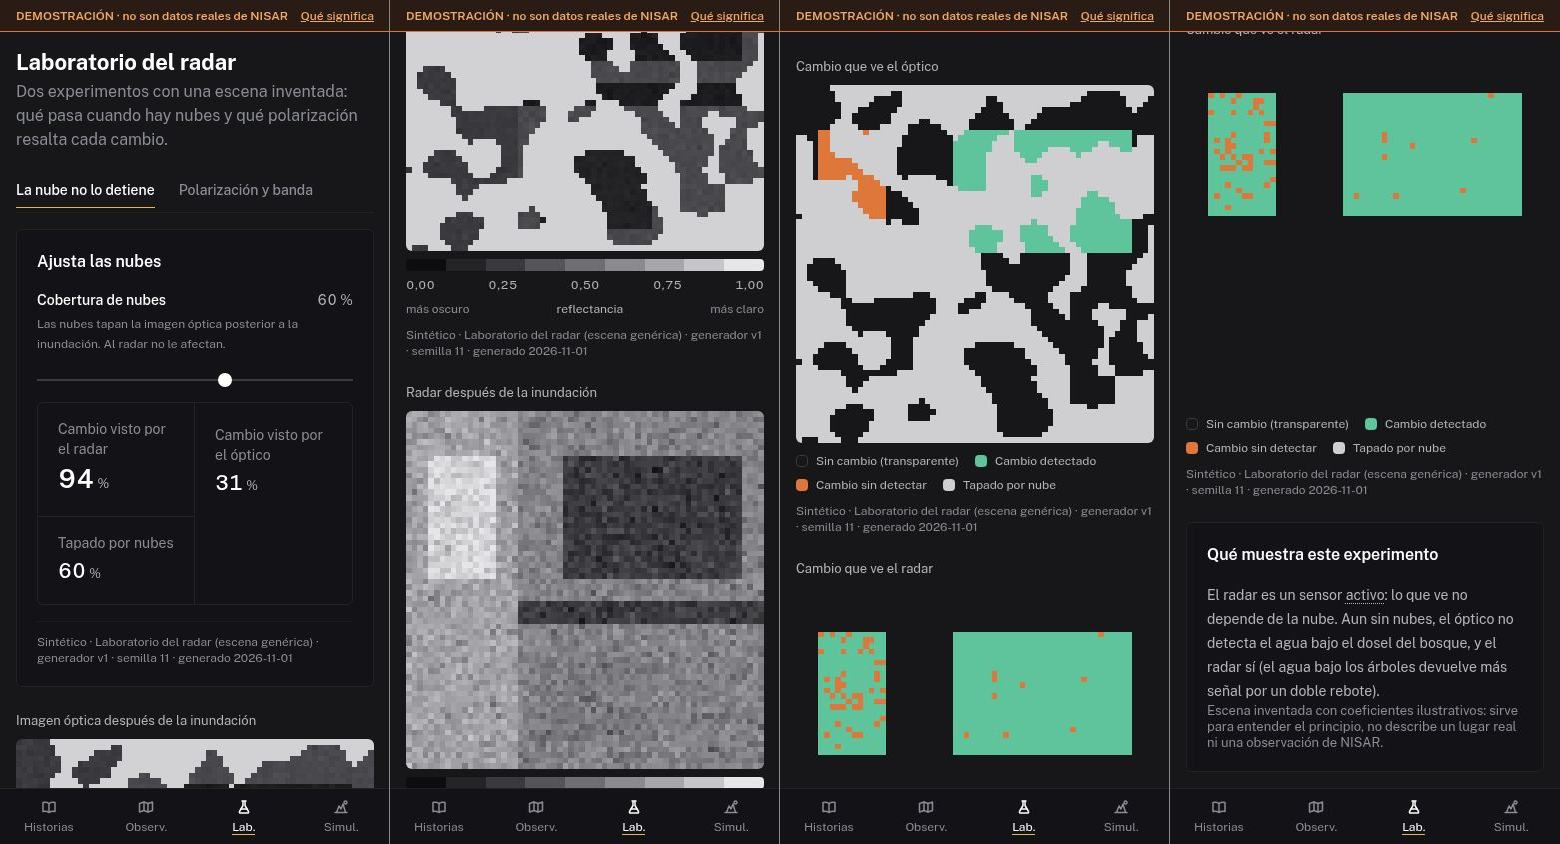
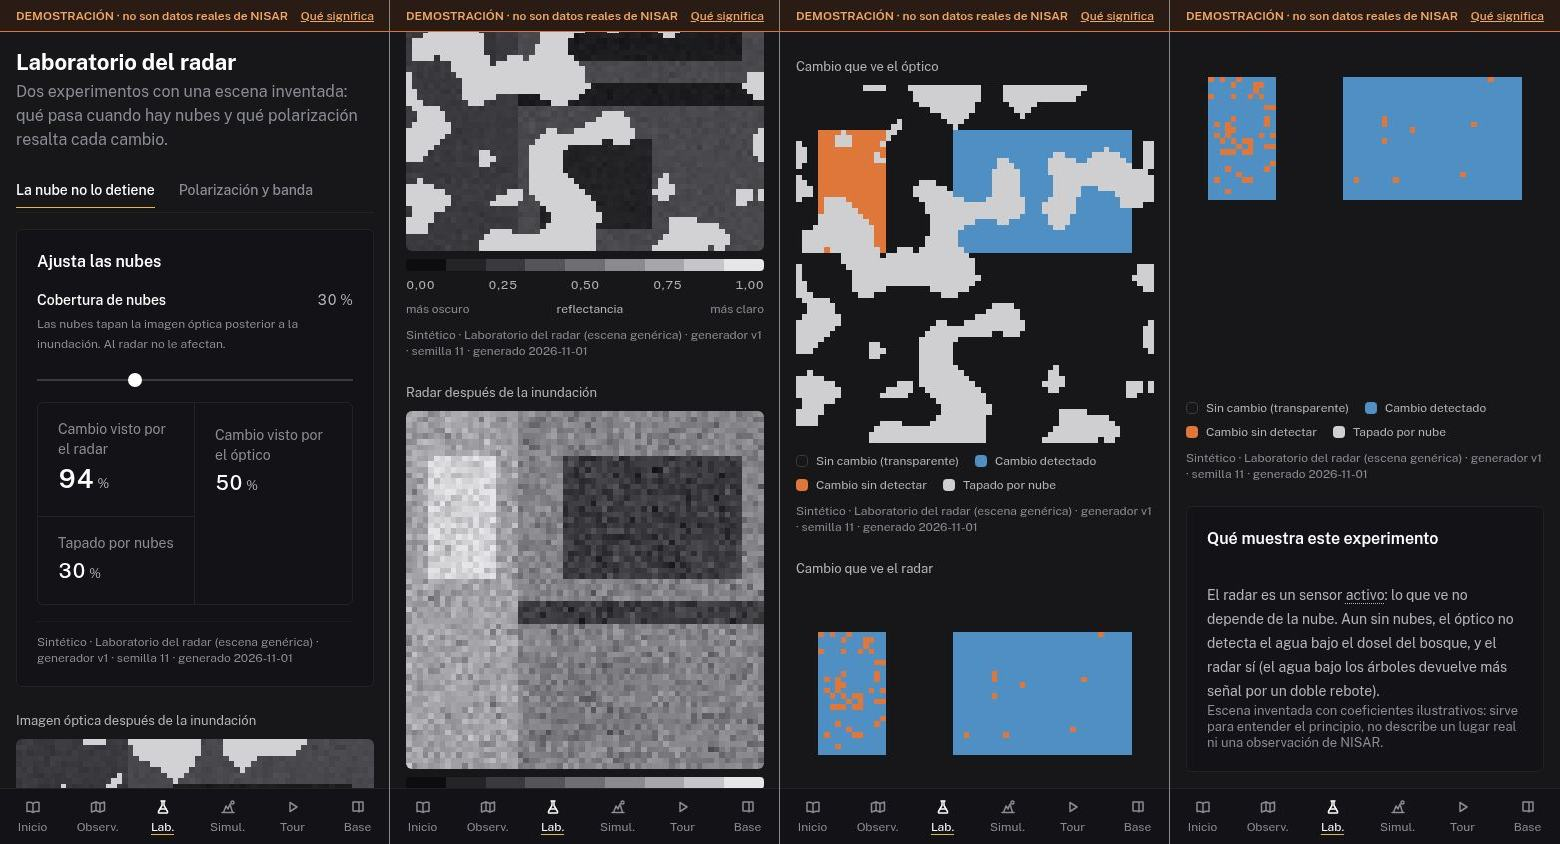
fix: hallazgos de la revisión de código (recorrido, impacto, laboratorio, localizador)

diff --git a/frontend/src/mapa/Localizador.tsx b/frontend/src/mapa/Localizador.tsx
@@ -19,27 +19,36 @@ const ANCHO = 80
  * base no carga (a escala de escenario el fondo es gris) y siempre para ubicarse. Decorativo para lectores
  * de pantalla: la ubicación ya está en el nombre del escenario.
  */
+let formaPais: ReturnType<typeof calcularForma> | undefined
+
+function calcularForma() {
+  const anillos = anillosContinentales()
+  let o = Infinity, e = -Infinity, s = Infinity, n = -Infinity
+  for (const a of anillos) for (const [lon, lat] of a) {
+    if (lon < o) o = lon
+    if (lon > e) e = lon
+    if (lat < s) s = lat
+    if (lat > n) n = lat
+  }
+  if (!Number.isFinite(o)) return null
+  const k = ANCHO / (e - o)
+  const x = (lon: number) => (lon - o) * k
+  const y = (lat: number) => (n - lat) * k
+  const d = anillos.map((a) => 'M' + a.map(([lon, lat]) => `${x(lon).toFixed(1)} ${y(lat).toFixed(1)}`).join('L') + 'Z').join('')
+  return { d, alto: (n - s) * k, x, y }
+}
+
 export function Localizador({ bbox }: { bbox: Bbox }) {
-  const forma = useMemo(() => {
-    const anillos = anillosContinentales()
-    const pts = anillos.flat()
-    if (!pts.length) return null
-    const lons = pts.map((p) => p[0]), lats = pts.map((p) => p[1])
-    const [o, e, s, n] = [Math.min(...lons), Math.max(...lons), Math.min(...lats), Math.max(...lats)]
-    const k = ANCHO / (e - o)
-    const alto = (n - s) * k
-    const x = (lon: number) => (lon - o) * k
-    const y = (lat: number) => (n - lat) * k
-    const d = anillos.map((a) => 'M' + a.map(([lon, lat]) => `${x(lon).toFixed(1)} ${y(lat).toFixed(1)}`).join('L') + 'Z').join('')
-    return { d, alto, x, y }
-  }, [])
+  const forma = useMemo(() => (formaPais === undefined ? (formaPais = calcularForma()) : formaPais), [])
   if (!forma) return null
   const cx = forma.x((bbox[0] + bbox[2]) / 2)
   const cy = forma.y((bbox[1] + bbox[3]) / 2)
+  // Fuera de la silueta continental (islas, escenario simulado fuera del país) no se dibuja un punto engañoso.
+  const dentro = cx >= 0 && cx <= ANCHO && cy >= 0 && cy <= forma.alto
   return (
     <svg className="localizador" width={ANCHO} height={forma.alto} viewBox={`0 0 ${ANCHO} ${forma.alto}`} aria-hidden="true" focusable="false">
       <path className="localizador__pais" d={forma.d} />
-      <circle className="localizador__punto" cx={cx} cy={cy} r={3} />
+      {dentro && <circle className="localizador__punto" cx={cx} cy={cy} r={3} />}
     </svg>
   )
 }

diff --git a/frontend/src/pantallas/laboratorio/VistaNubes.tsx b/frontend/src/pantallas/laboratorio/VistaNubes.tsx
@@ -6,7 +6,7 @@ import { SelloOrigen } from '../../diseno/SelloOrigen'
 import { Tarjeta } from '../../diseno/Tarjeta'
 import { Termino } from '../../diseno/Termino'
 import { PanelRadar } from '../simulador/PanelRadar'
-import { mensajeError } from './mensajeError'
+import { mensajeDeError } from '../../api/cliente'
 
 interface Props { cobertura: number; onCobertura: (n: number) => void }
 
@@ -14,9 +14,8 @@ interface Props { cobertura: number; onCobertura: (n: number) => void }
 export function VistaNubes({ cobertura, onCobertura }: Props) {
   const q = useNubes(cobertura)
   if (q.isPending) return <Cargando texto="Preparando el experimento…" filas={4} />
-  if (q.isError) return <ErrorBloque mensaje={mensajeError(q.error)} onReintentar={() => void q.refetch()} />
+  if (q.isError) return <ErrorBloque mensaje={mensajeDeError(q.error)} onReintentar={() => void q.refetch()} />
   const d = q.data
-  const [radar, optico, tapado] = d.metricas
   return (
     <div className="laboratorio">
       <Tarjeta titulo="Ajusta las nubes" pie={<SelloOrigen origen={d.origen} />}>
@@ -27,11 +26,7 @@ export function VistaNubes({ cobertura, onCobertura }: Props) {
           onChange={(e) => onCobertura(Number(e.target.value))}
           limite="Las nubes tapan la imagen óptica posterior a la inundación. Al radar no le afectan."
         />
-        <FranjaKpi items={[
-          { ...radar, etiqueta: radar.etiqueta, principal: true },
-          { ...optico, etiqueta: optico.etiqueta },
-          { ...tapado, etiqueta: tapado.etiqueta },
-        ]} />
+        <FranjaKpi items={d.metricas.map((m, k) => ({ ...m, principal: k === 0 }))} />
       </Tarjeta>
       <div className="laboratorio__rejilla">
         <PanelRadar capa={d.optico} titulo="Imagen óptica después de la inundación" />

diff --git a/frontend/src/pantallas/observatorio/VistaImpacto.tsx b/frontend/src/pantallas/observatorio/VistaImpacto.tsx
@@ -1,5 +1,5 @@
 import { useState } from 'react'
-import { ErrorApi, MENSAJE_RED } from '../../api/cliente'
+import { mensajeDeError } from '../../api/cliente'
 import { useImpacto, type Escenario } from '../../api/consultas'
 import { Boton } from '../../diseno/Boton'
 import { Cargando, ErrorBloque } from '../../diseno/Estados'
@@ -23,7 +23,7 @@ export function VistaImpacto({ esc, antesId, despuesId, polarizacion }: Props) {
   const [aviso, setAviso] = useState<string | null>(null)
   if (antesId === despuesId) return <p className="observatorio__aviso">Elige dos pasadas distintas para resumir el impacto.</p>
   if (q.isPending) return <Cargando texto="Calculando el impacto…" filas={4} />
-  if (q.isError) return <ErrorBloque mensaje={q.error instanceof ErrorApi ? q.error.mensaje : MENSAJE_RED} onReintentar={() => void q.refetch()} />
+  if (q.isError) return <ErrorBloque mensaje={mensajeDeError(q.error)} onReintentar={() => void q.refetch()} />
   const d = q.data
 
   const descargar = async () => {
@@ -48,7 +48,7 @@ export function VistaImpacto({ esc, antesId, despuesId, polarizacion }: Props) {
       <div className="impacto__rejilla">
         <PanelRadar capa={d.capa} titulo={`Dónde: ${d.antes} → ${d.despues}`} />
         <Tarjeta titulo="Hectáreas por categoría">
-          <Barras datos={d.categorias.map((c) => ({ etiqueta: c.etiqueta, corta: c.etiqueta.split(' ')[0], valor: Math.round(c.ha) }))} unidad="ha" origen={d.origen} />
+          <Barras datos={d.categorias.map((c) => ({ etiqueta: c.etiqueta, corta: c.etiqueta.replace(/\s*\(.*\)/, ''), valor: Math.round(c.ha) }))} unidad="ha" origen={d.origen} />
         </Tarjeta>
       </div>
       {d.evolucion.length > 1 && (

diff --git a/frontend/src/pantallas/recorrido/Recorrido.tsx b/frontend/src/pantallas/recorrido/Recorrido.tsx
@@ -16,22 +16,19 @@ export default function Recorrido() {
   const indice = Number.isInteger(n) && n >= 1 && n <= GUION.length ? n - 1 : 0
   const paso = GUION[indice]
   const [auto, setAuto] = useState(() => !prefiereMenosMovimiento())
-  const [restante, setRestante] = useState(paso.segundos)
   const raiz = useRef<HTMLDivElement>(null)
 
   const ir = (i: number) => setParams(i === 0 ? {} : { paso: String(i + 1) }, { replace: true })
 
-  useEffect(() => { setRestante(paso.segundos) }, [paso])
+  // Un temporizador por paso: se rearma al cambiar de paso o al reanudar, y nunca lee estado de un render anterior.
   useEffect(() => {
     if (!auto) return
-    const t = setInterval(() => setRestante((r) => r - 1), 1000)
-    return () => clearInterval(t)
-  }, [auto, indice])
-  useEffect(() => {
-    if (restante > 0) return
-    if (indice < GUION.length - 1) ir(indice + 1)
-    else setAuto(false)
-  }) // eslint-disable-line react-hooks/exhaustive-deps
+    const t = setTimeout(() => {
+      if (indice < GUION.length - 1) ir(indice + 1)
+      else setAuto(false)
+    }, paso.segundos * 1000)
+    return () => clearTimeout(t)
+  }, [auto, indice]) // eslint-disable-line react-hooks/exhaustive-deps
 
   const alTeclear = (e: React.KeyboardEvent) => {
     if (e.key === 'ArrowRight' && indice < GUION.length - 1) ir(indice + 1)

diff --git a/frontend/src/pantallas/recorrido/recorrido.test.tsx b/frontend/src/pantallas/recorrido/recorrido.test.tsx
@@ -1,6 +1,6 @@
-import { fireEvent, render, screen } from '@testing-library/react'
+import { act, fireEvent, render, screen } from '@testing-library/react'
 import { MemoryRouter } from 'react-router-dom'
-import { describe, expect, it } from 'vitest'
+import { afterEach, describe, expect, it, vi } from 'vitest'
 import { GUION } from './guion'
 import Recorrido from './Recorrido'
 
@@ -34,5 +34,21 @@ describe('Recorrido', () => {
   it('un paso fuera de rango cae al primero', () => {
     montar('/recorrido?paso=99')
     expect(screen.getByText(GUION[0].titulo)).toBeInTheDocument()
+  })
+})
+
+describe('Recorrido · avance automático', () => {
+  afterEach(() => vi.useRealTimers())
+  it('avanza de uno en uno (no se salta pasos) y se detiene en el último', () => {
+    vi.useFakeTimers()
+    vi.stubGlobal('matchMedia', () => ({ matches: false, addEventListener() {}, removeEventListener() {} }))
+    montar()
+    for (let i = 1; i < GUION.length; i++) {
+      act(() => { vi.advanceTimersByTime(GUION[i - 1].segundos * 1000) })
+      expect(screen.getByText(GUION[i].titulo)).toBeInTheDocument()
+    }
+    act(() => { vi.advanceTimersByTime(GUION[GUION.length - 1].segundos * 1000) })
+    expect(screen.getByRole('button', { name: 'Reanudar' })).toBeInTheDocument()
+    vi.unstubAllGlobals()
   })
 })

diff --git a/frontend/src/pantallas/laboratorio/VistaPolarizacion.tsx b/frontend/src/pantallas/laboratorio/VistaPolarizacion.tsx
@@ -7,7 +7,7 @@ import { Tarjeta } from '../../diseno/Tarjeta'
 import { Termino } from '../../diseno/Termino'
 import { Barras } from '../../graficos/Barras'
 import { PanelRadar } from '../simulador/PanelRadar'
-import { mensajeError } from './mensajeError'
+import { mensajeDeError } from '../../api/cliente'
 
 interface Props { banda: string; pol: string; onBanda: (b: string) => void; onPol: (p: string) => void }
 
@@ -22,7 +22,7 @@ const COLUMNAS: ColumnaTabla<Fila>[] = [
 export function VistaPolarizacion({ banda, pol, onBanda, onPol }: Props) {
   const q = useRespuestaRadar(banda, pol)
   if (q.isPending) return <Cargando texto="Preparando el experimento…" filas={4} />
-  if (q.isError) return <ErrorBloque mensaje={mensajeError(q.error)} onReintentar={() => void q.refetch()} />
+  if (q.isError) return <ErrorBloque mensaje={mensajeDeError(q.error)} onReintentar={() => void q.refetch()} />
   const d = q.data
   const barras = d.respuestas.filter((r) => r.pol === pol).map((r) => ({ etiqueta: r.superficie, corta: r.superficie === 'Bosque inundado' ? 'Inundado' : r.superficie, valor: r.db }))
   const filas: Fila[] = d.cambios.map((c) => ({ cambio: c.cambio, mejor: c.mejor_pol, contraste: c.contraste_db }))

diff --git a/frontend/src/diseno/rampas.ts b/frontend/src/diseno/rampas.ts
@@ -34,9 +34,9 @@ export const COLORES_CATEGORIA: Record<string, ColorCategoria[]> = {
   cambio_por_parcela: [null, '#5fc39c', '#e0773a', '#4f8fc4'],
   // Hielo nuevo (avance), Hielo perdido (retroceso del frente)
   cambio_del_frente: ['#4f8fc4', '#e0773a'],
-  // Laboratorio: Sin cambio (transparente), Cambio detectado, Cambio sin detectar, Tapado por nube
-  clasificacion_optico: [null, '#4f8fc4', '#e0773a', '#cfcfd2'],
-  clasificacion_radar: [null, '#4f8fc4', '#e0773a', '#cfcfd2'],
+  // Laboratorio: Sin cambio (transparente), Cambio detectado, Cambio sin detectar, Tapado por nube, Falsa alarma
+  clasificacion_optico: [null, '#4f8fc4', '#e0773a', '#cfcfd2', '#f8d98a'],
+  clasificacion_radar: [null, '#4f8fc4', '#e0773a', '#cfcfd2', '#f8d98a'],
   // Laboratorio: Bosque, Agua, Bosque inundado, Cultivo, Quemado
   superficies: ['#5fc39c', '#2a6496', '#8fc0e6', '#efa04a', '#9a3412'],
 }

diff --git a/frontend/src/diseno/Estructura.tsx b/frontend/src/diseno/Estructura.tsx
@@ -22,10 +22,15 @@ const DESTINOS: Destino[] = [
   { ruta: '/fundamentos', etiqueta: 'Fundamentos', etiquetaCorta: 'Base', Icono: IconoLibro },
 ]
 
+/** ¿La app corre dentro de un iframe (el recorrido)? Así el modo incrustado sobrevive a la navegación interna. */
+function dentroDeMarco(): boolean {
+  try { return window.self !== window.top } catch { return true }
+}
+
 /** Riel de 50 px (escritorio, tablet) o barra inferior (< 700 px) más el lienzo con la banda arriba. */
 export function Estructura() {
   // `?incrustado=1`: pantalla dentro del recorrido; sin riel (la banda de demostración se queda).
-  const incrustado = useSearchParams()[0].get('incrustado') === '1'
+  const incrustado = useSearchParams()[0].get('incrustado') === '1' || dentroDeMarco()
   return (
     <div className="estructura">
       {!incrustado && <nav className="riel" aria-label="Principal">

diff --git a/frontend/src/api/cliente.ts b/frontend/src/api/cliente.ts
@@ -59,3 +59,6 @@ export async function llamar<T>(ruta: string, cuerpo?: unknown): Promise<T> {
     throw new ErrorApi(r.status, 'La respuesta del servidor no es válida.', false)
   }
 }
+
+/** Mensaje de un error de la API o, si no es de la API, el de red caída. */
+export const mensajeDeError = (e: unknown): string => (e instanceof ErrorApi ? e.mensaje : MENSAJE_RED)

diff --git a/datos/impacto.py b/datos/impacto.py
@@ -15,8 +15,9 @@ from datos.contrato import CapaRaster, EntradaNoValida, Metrica, ProveedorDatos
 
 MAX_PUNTOS_EVOLUCION = 12
 
-# Categorías que cuentan como «afectado» por tipo de historia (código = posición + 1 en la leyenda)
-AFECTADO = {"inundacion": {1, 3}, "incendio": {1, 2}}
+# Qué etiquetas de la leyenda cuentan como «afectado» por tipo de historia. Los códigos se resuelven por
+# etiqueta (no por posición): si el proveedor cambia el orden o el texto, falla en vez de rotular mal.
+AFECTADO = {"inundacion": ("Nueva inundación", "Inundación persistente"), "incendio": ("Severidad",)}
 ACCIONES = {
     "inundacion": [
         "Contrastar los bordes de la mancha con el aviso de la autoridad local antes de decidir cierres de vías.",
@@ -56,6 +57,14 @@ def _capa_de_impacto(r) -> CapaRaster:
     return capa
 
 
+def _codigos(capa: CapaRaster, prefijos: tuple[str, ...]) -> set[int]:
+    """Códigos (posición + 1) de las categorías cuya etiqueta empieza por alguno de los prefijos."""
+    cods = {k for k, (etiqueta, _c) in enumerate(capa.leyenda or [], start=1) if etiqueta.startswith(prefijos)}
+    if not cods:
+        raise EntradaNoValida("La clasificación del escenario no trae las categorías esperadas para resumir el impacto.")
+    return cods
+
+
 def _km2(capa: CapaRaster, codigos: set[int]) -> float:
     d = capa.datos
     return float(np.isin(d[~np.isnan(d)], list(codigos)).sum() * _area_pixel_km2(capa))
@@ -68,7 +77,21 @@ def _espaciados(ids: list[str], maximo: int) -> list[str]:
     return [ids[i] for i in idx]
 
 
+_CACHE: dict[tuple, dict] = {}
+_CACHE_MAX = 32
+
+
 def resumen(prov: ProveedorDatos, escenario_id: str, antes: str, despues: str, pol: str | None) -> dict:
+    """Con caché acotada: la evolución llama hasta 13 veces a `prov.cambio`, que con el proveedor real sería caro."""
+    clave = (id(prov), escenario_id, antes, despues, pol)
+    if clave not in _CACHE:
+        if len(_CACHE) >= _CACHE_MAX:
+            _CACHE.pop(next(iter(_CACHE)))
+        _CACHE[clave] = _calcular(prov, escenario_id, antes, despues, pol)
+    return _CACHE[clave]
+
+
+def _calcular(prov: ProveedorDatos, escenario_id: str, antes: str, despues: str, pol: str | None) -> dict:
     esc = prov.escenario(escenario_id)
     historia = esc.historia
     if historia not in AFECTADO:
@@ -82,15 +105,24 @@ def resumen(prov: ProveedorDatos, escenario_id: str, antes: str, despues: str, p
     for k, (etiqueta, _color) in enumerate(capa.leyenda, start=1):
         km2 = _km2(capa, {k})
         categorias.append({"etiqueta": etiqueta, "km2": km2, "ha": km2 * 100, "pct_escena": 100 * km2 / escena_km2 if escena_km2 else 0.0})
-    afectada_km2 = _km2(capa, AFECTADO[historia])
+    afectadas = _codigos(capa, AFECTADO[historia])
+    afectada_km2 = _km2(capa, afectadas)
 
     # Evolución: superficie afectada en cada pasada frente a la pasada «antes».
-    t_antes = next(a.instante for a in esc.adquisiciones if a.id == antes)
-    posteriores = [a for a in esc.adquisiciones if a.instante > t_antes]
-    por_id = {a.id: a for a in posteriores}
+    por_id_todas = {a.id: a for a in esc.adquisiciones}
+    t_antes, t_despues = por_id_todas[antes].instante, por_id_todas[despues].instante
+    if t_despues <= t_antes:
+        raise EntradaNoValida("La pasada «después» debe ser posterior a la pasada «antes».")
+    # Solo el intervalo analizado (hasta «después» incluida), y «después» siempre está en la serie.
+    en_rango = sorted((a for a in esc.adquisiciones if t_antes < a.instante <= t_despues), key=lambda a: a.instante)
+    por_id = {a.id: a for a in en_rango}
+    ids = _espaciados([a.id for a in en_rango], MAX_PUNTOS_EVOLUCION)
+    if despues not in ids:
+        ids = [*ids[:-1], despues] if ids else [despues]
     evolucion = []
-    for aid in _espaciados([a.id for a in posteriores], MAX_PUNTOS_EVOLUCION):
-        km2 = _km2(_capa_de_impacto(prov.cambio(escenario_id, antes, aid, pol)), AFECTADO[historia])
+    for aid in ids:
+        c = _capa_de_impacto(prov.cambio(escenario_id, antes, aid, pol))
+        km2 = _km2(c, _codigos(c, AFECTADO[historia]))
         evolucion.append({"instante": por_id[aid].instante, "ha": km2 * 100})
     pico = max(evolucion, key=lambda p: p["ha"]) if evolucion else None
 
@@ -98,14 +130,14 @@ def resumen(prov: ProveedorDatos, escenario_id: str, antes: str, despues: str, p
     pct_afectada = 100 * afectada_km2 / escena_km2 if escena_km2 else 0.0
     if historia == "inundacion":
         titulo = "Superficie inundada"
-        nueva = categorias[0]["ha"]
+        nueva = sum(c["ha"] for c in categorias if c["etiqueta"].startswith("Nueva inundación"))
         cifras = [Metrica(etiqueta="Superficie inundada al final", valor=_n(ha), unidad="ha", ayuda="Hectáreas con agua en la pasada «después» (nueva inundación más la que ya estaba)."),
                   Metrica(etiqueta="Inundación nueva", valor=_n(nueva), unidad="ha", ayuda="Hectáreas que no tenían agua en la pasada «antes» y sí en la «después»."),
                   Metrica(etiqueta="Parte de la escena", valor=_pct(pct_afectada), unidad="%", ayuda="Fracción del área analizada que está inundada al final.")]
         lectura = [f"En este escenario de demostración, el radar marca unas {_n(ha)} ha con agua al final del intervalo, el {_pct(pct_afectada)} % del área analizada."]
     else:
         titulo = "Superficie quemada"
-        alta = categorias[-1]["ha"]
+        alta = sum(c["ha"] for c in categorias if c["etiqueta"].startswith("Severidad alta"))
         cifras = [Metrica(etiqueta="Superficie quemada detectada", valor=_n(ha), unidad="ha", ayuda="Hectáreas donde la señal cruzada (HV) cayó lo bastante para marcar daño."),
                   Metrica(etiqueta="Severidad alta", valor=_n(alta), unidad="ha", ayuda="Hectáreas con la mayor caída de señal: la mayor pérdida de estructura del bosque."),
                   Metrica(etiqueta="Parte de la escena", valor=_pct(pct_afectada), unidad="%", ayuda="Fracción del área analizada que aparece quemada.")]

diff --git a/datos/laboratorio.py b/datos/laboratorio.py
@@ -35,7 +35,8 @@ OPTICO = {BOSQUE: 0.25, AGUA: 0.08, BOSQUE_INUNDADO: 0.22, CULTIVO: 0.32, QUEMAD
 UMBRAL_RADAR_DB = 4.0
 UMBRAL_OPTICO = 0.08
 LEYENDA_CAMBIO = [("Sin cambio", "#4a5568"), ("Cambio detectado", "#e5b93c"),
-                  ("Cambio sin detectar", "#d9534f"), ("Tapado por nube", "#c8ccd4")]
+                  ("Cambio sin detectar", "#d9534f"), ("Tapado por nube", "#c8ccd4"),
+                  ("Falsa alarma", "#c96b8c")]
 LEYENDA_SUPERFICIES = list(zip(SUPERFICIES, ("#2f7d4f", "#2a6fb0", "#7fb8a0", "#b9a45a", "#6b4a3a")))
 
 
@@ -123,6 +124,7 @@ def nubes(cobertura_pct: float, semilla: int = 1) -> dict:
         c = np.ones((N, N), np.float32)                     # 1 sin cambio
         c[real & det] = 2                                   # 2 detectado
         c[real & ~det] = 3                                  # 3 sin detectar
+        c[~real & det] = 5                                  # 5 falsa alarma (moteado o ruido)
         if con_nube:
             c[nube] = 4                                     # 4 tapado por nube
         return c
@@ -131,8 +133,8 @@ def nubes(cobertura_pct: float, semilla: int = 1) -> dict:
     capas = {
         "optico": _capa("reflectancia", None, "reflectancia", "gris", 0.0, 1.0, None, od, nota),
         "radar": _capa("sigma0", "HH", "dB", "gris", -30.0, 0.0, None, rd, nota + " Banda L, HH."),
-        "cambio_optico": _capa("clasificacion_optico", None, "", "categorias", 0, 4, LEYENDA_CAMBIO, cambio(det_opt, True), nota),
-        "cambio_radar": _capa("clasificacion_radar", "HH", "", "categorias", 0, 4, LEYENDA_CAMBIO, cambio(det_radar, False), nota),
+        "cambio_optico": _capa("clasificacion_optico", None, "", "categorias", 0, 5, LEYENDA_CAMBIO, cambio(det_opt, True), nota),
+        "cambio_radar": _capa("clasificacion_radar", "HH", "", "categorias", 0, 5, LEYENDA_CAMBIO, cambio(det_radar, False), nota),
     }
     total = int(real.sum())
     pct = lambda x: 100.0 * x / total  # noqa: E731
@@ -142,6 +144,8 @@ def nubes(cobertura_pct: float, semilla: int = 1) -> dict:
                 ayuda="Parte de los píxeles que realmente cambiaron y que el radar marca como cambio. Las nubes no lo afectan."),
         Metrica(etiqueta="Cambio visto por el óptico", valor=f"{p_opt:.0f}", unidad="%",
                 ayuda="Lo mismo para una imagen óptica. Las nubes la tapan y, bajo el dosel, no ve el agua."),
+        Metrica(etiqueta="Falsas alarmas del radar", valor=f"{100.0 * int((~real & det_radar).sum()) / int((~real).sum()):.1f}".replace(".", ","), unidad="%",
+                ayuda="Píxeles sin cambio que el radar marca como cambio por el moteado (speckle). El radar no es perfecto."),
         Metrica(etiqueta="Tapado por nubes", valor=f"{100.0 * nube.mean():.0f}", unidad="%",
                 ayuda="Fracción de la escena que las nubes ocultan en la imagen óptica."),
     ]

diff --git a/tests/datos/test_impacto.py b/tests/datos/test_impacto.py
@@ -46,3 +46,26 @@ def test_otros_escenarios_no_aplican(prov, id):
     a, b = prov.intervalo_por_defecto(id)
     with pytest.raises(EntradaNoValida):
         impacto.resumen(prov, id, a, b, None)
+
+
+def test_la_evolucion_llega_hasta_despues_y_no_mas_alla(prov):
+    esc = prov.escenario("ec_la_segua")
+    ids = [a.id for a in esc.adquisiciones]
+    r = impacto.resumen(prov, "ec_la_segua", ids[2], ids[9], None)
+    assert max(p["instante"] for p in r["evolucion"]) == esc.adquisiciones[9].instante
+    assert min(p["instante"] for p in r["evolucion"]) > esc.adquisiciones[2].instante
+
+
+def test_despues_anterior_a_antes_es_error(prov):
+    ids = [a.id for a in prov.escenario("ec_la_segua").adquisiciones]
+    with pytest.raises(EntradaNoValida):
+        impacto.resumen(prov, "ec_la_segua", ids[9], ids[2], None)
+
+
+def test_categorias_inesperadas_fallan_en_vez_de_rotular_mal():
+    from datos.contrato import CapaRaster
+    from datos.laboratorio import origen
+    capa = CapaRaster("x", None, "v", None, "", "categorias", 0, 2, [("Otra cosa", "#000"), ("Algo más", "#000")],
+                      np.ones((4, 4), np.float32), (-80, -2, -79, -1), origen("prueba"))
+    with pytest.raises(EntradaNoValida):
+        impacto._codigos(capa, impacto.AFECTADO["incendio"])
